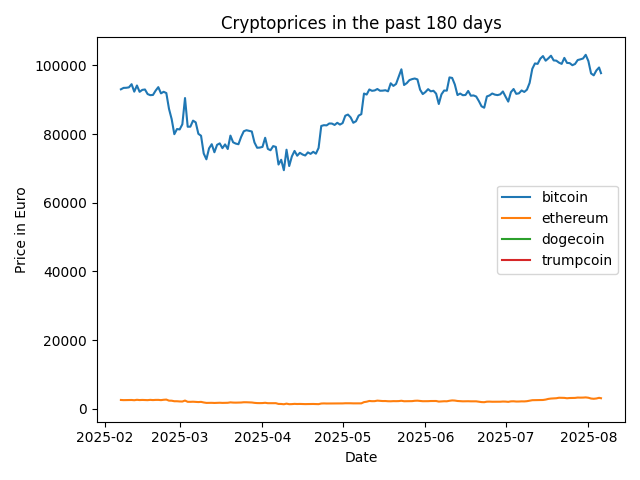
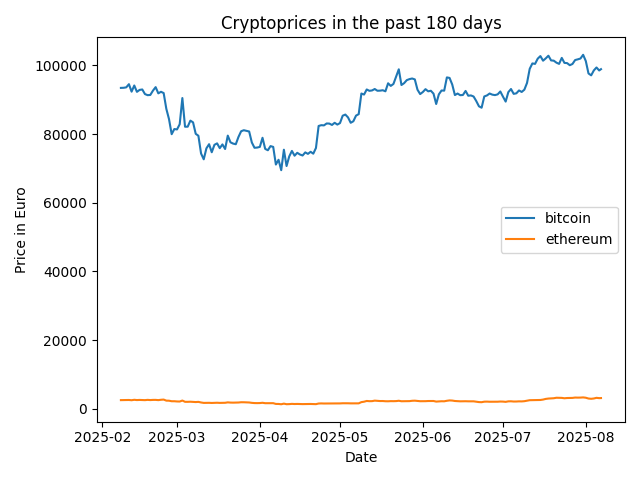
Streamlit Dashboard initialising

diff --git a/analysis/dashboard.py b/analysis/dashboard.py
@@ -1,0 +1,42 @@
+import streamlit as st
+import pandas as pd
+import matplotlib.pyplot as plt
+
+# Load Dataframe
+df = pd.read_csv("data/crypto_prices.csv")
+
+# Sidebar for Options
+st.sidebar.title("Settings")
+coins = df["coin"].unique()
+selected_coin = st.sidebar.selectbox("Choose a Cryptocurrency", coins)
+
+# Choose Timeframe
+min_date = df["date"].min()
+max_date = df["date"].max()
+date_range = st.sidebar.date_input("Choose Timeframe", [pd.to_datetime(min_date), pd.to_datetime(max_date)])
+
+# Filter Data
+df["date"] = pd.to_datetime(df["date"])
+filtered_df = df[
+    (df["coin"] == selected_coin) &
+    (df["date"] >= pd.to_datetime(date_range[0])) &
+    (df["date"] <= pd.to_datetime(date_range[1]))
+]
+
+# Calculate Statistic
+average = filtered_df["price"].mean()
+std_dev = filtered_df["price"].std()
+
+# Output
+st.title("Crypto-Dashboard")
+st.write(f"**Average Price:** €{average:.2f}")
+st.write(f"**Standard Deviation:** €{std_dev:.2f}")
+
+# Show Plot
+fig, ax = plt.subplots()
+ax.plot(filtered_df["date"], filtered_df["price"], label = selected_coin)
+ax.set_xlabel("Date")
+ax.set_ylabel("Price in Euro")
+ax.set_title(f"Priceevolution of {selected_coin.upper()}")
+ax.legend()
+st.pyplot(fig)

diff --git a/analysis/crypto_analysis.py b/analysis/crypto_analysis.py
@@ -6,7 +6,7 @@ import os
 
 os.makedirs("data", exist_ok=True)
 os.makedirs("plots", exist_ok=True)
-coins = ["bitcoin", "ethereum", "dogecoin", "trumpcoin"]
+coins = ["bitcoin", "ethereum"]
 
 all_data = []
 for coin in coins:
@@ -30,4 +30,22 @@ plt.ylabel("Price in Euro")
 plt.legend()
 plt.tight_layout()
 plt.savefig("plots/price_chart.png")
-plt.show()
+#plt.show()
+
+summary = []
+for coin in coins:
+    coin_df = crypto_df[crypto_df["coin"] == coin]
+    mean = coin_df["price"].mean().round(2)
+    max = coin_df["price"].max().round(2)
+    min = coin_df["price"].min().round(2)
+    std = coin_df["price"].std().round(2)
+    summary.append({
+        "Coin": coin.upper(),
+        "Average (€)": mean,
+        "Max (€)": max,
+        "Min (€)": min,
+        "StdDev (€)": std
+    })
+
+summary_df = pd.DataFrame(summary)
+print(summary_df.to_string(index=False, col_space=15))
